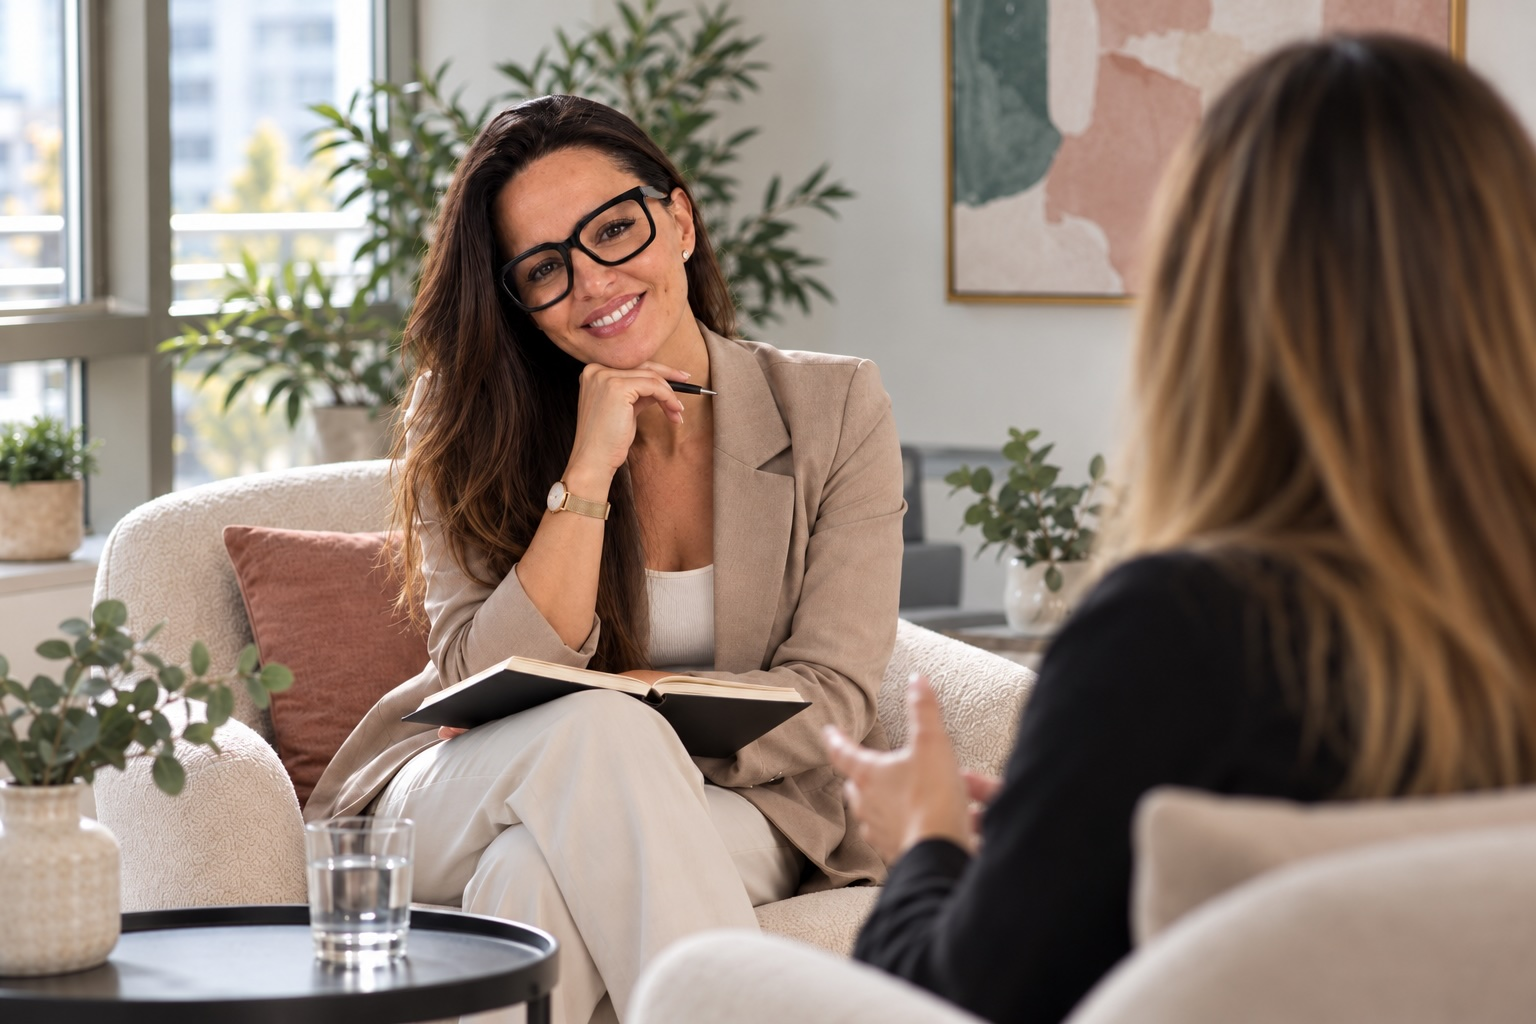
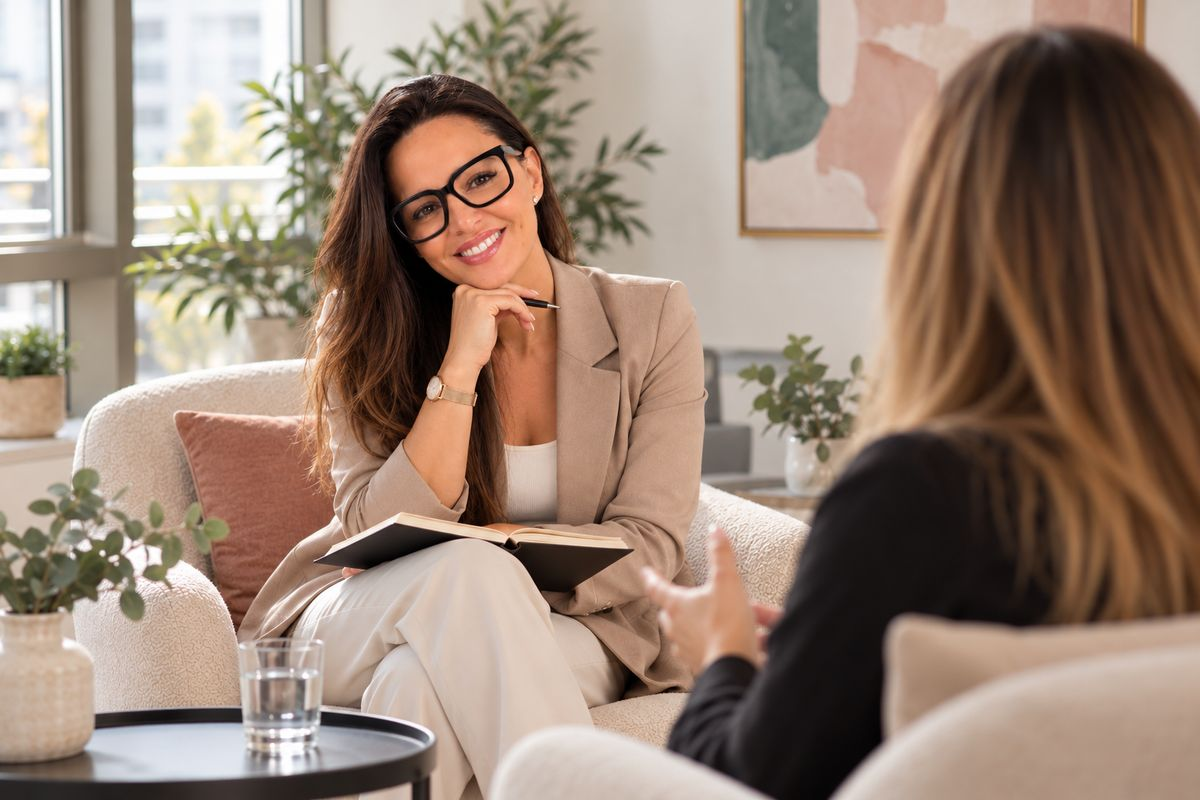
Add files via upload

diff --git a/foglalas.html b/foglalas.html
@@ -40,8 +40,8 @@
       <p>Egy foglalási oldalon választhatsz az ingyenes ismerkedő beszélgetés és a coaching ülés között. Az árak bruttó árak. A foglalásnál add meg, melyiket szeretnéd.</p>
       <ul class="checks">
         <li><strong>Ismerkedő beszélgetés:</strong> 30 perc, ingyenes. Megbeszéljük a témádat, és hogy a coaching jó irány-e hozzá. Nem kötelez semmire.</li>
-        <li><strong>Coaching ülés (life vagy kamasz coaching):</strong> 60 perc, 30 000 Ft bruttó. Folyamatban lévő coaching alkalom, akkor foglalj, ha az ismerkedő beszélgetésen már megállapodtunk a folytatásban.</li>
-        <li><strong>Párkapcsolati coaching ülés:</strong> 60 000 Ft bruttó alkalmanként. Hármasban dolgozunk, a foglalásnál jelöld meg, hogy párkapcsolati ülést szeretnél.</li>
+        <li><strong>Coaching ülés (life vagy kamasz coaching):</strong> 60 perc, 24 900 Ft bruttó. Folyamatban lévő coaching alkalom, akkor foglalj, ha az ismerkedő beszélgetésen már megállapodtunk a folytatásban.</li>
+        <li><strong>Párkapcsolati coaching ülés:</strong> 34 900 Ft bruttó alkalmanként. Hármasban dolgozunk, a foglalásnál jelöld meg, hogy párkapcsolati ülést szeretnél.</li>
       </ul>
       <p class="meta">Pedagógus team coaching: egyedi ajánlat alapján, kérjük, írj a <a href="mailto:info@kapcsolodascoaching.hu?subject=Pedag%C3%B3gus%20team%20coaching">info@kapcsolodascoaching.hu</a> címre.</p>
       <p class="meta">Az időpontok 60 perces sávok. Az ismerkedő beszélgetés ebből 30 perc.</p>

diff --git a/index.html b/index.html
@@ -71,14 +71,14 @@
         <h3>Life coaching</h3>
         <div>
           <p>Elakadtál egy élethelyzetben, döntés előtt állsz, vagy egyszerűen szeretnéd jobban érteni, mi történik veled. Az ülésen te hozod a témát, én kérdezek, segítek az önreflexióban, és rendezem a gondolataidat, hogy lépésekké alakulhassanak.</p>
-          <p class="price">30 000 Ft / alkalom, bruttó</p>
+          <p class="price">24 900 Ft / alkalom, bruttó</p>
         </div>
       </li>
       <li>
         <h3>Párkapcsolati coaching</h3>
         <div>
           <p>Közös asztalnál, hármasban dolgozunk: kiteszünk mindent az asztalra, és könnyed beszélgetés közben hidat építünk kettőtök között. Ez nem párterápia.</p>
-          <p class="price">60 000 Ft / alkalom, bruttó</p>
+          <p class="price">34 900 Ft / alkalom, bruttó</p>
           <p><a class="more" href="parkapcsolati.html">Részletek a párkapcsolati coachingról</a></p>
         </div>
       </li>
@@ -86,7 +86,7 @@
         <h3>Coaching kamaszoknak és neurodivergens kamaszoknak</h3>
         <div>
           <p>Kamaszoknak, köztük ADHD-s, autizmus spektrumon lévő vagy más módon neurodivergens kamaszoknak, és a szüleiknek, akik biztonságos, ítélkezésmentes teret szeretnének számukra.</p>
-          <p class="price">30 000 Ft / alkalom, bruttó</p>
+          <p class="price">24 900 Ft / alkalom, bruttó</p>
           <p><a class="more" href="kamaszok.html">Részletek a kamasz coachingról</a></p>
         </div>
       </li>

diff --git a/parkapcsolati.html b/parkapcsolati.html
@@ -63,7 +63,7 @@
         <li>Önreflexióval keressük, mi történik bennetek, és mi lehet a következő lépés.</li>
         <li>Az ismerkedő beszélgetés ingyenes, és nem jár elköteleződéssel.</li>
       </ul>
-      <p class="price" style="margin-top:1.4rem">60 000 Ft / alkalom, bruttó</p>
+      <p class="price" style="margin-top:1.4rem">34 900 Ft / alkalom, bruttó</p>
       <div class="note" style="margin-top:1.4rem"><p>A coaching nem párterápia, és nem pszichológiai kezelés. Ha ilyen jellegű segítségre van szükségetek, az ismerkedő beszélgetésen közösen átgondoljuk, ki lehet a megfelelő szakember.</p></div>
       <p style="margin-top:1.6rem"><a class="btn" href="https://calendar.google.com/calendar/u/0/appointments/schedules/AcZssZ18UnJL9mykO5H6ke5_h1Ri6ztLCyt28_l9wbtVGC3lF9zkRN8YsLWIUeOnDKF8heq-Guiknu7d">Időpontot választok</a></p>
     </div>

diff --git a/kamaszok.html b/kamaszok.html
@@ -69,7 +69,7 @@
     <div>
       <ul class="checks">
         <li>Az ismerkedő beszélgetés ingyenes, és nem jár elköteleződéssel.</li>
-        <li>Az ülések díja 30 000 Ft alkalmanként (bruttó).</li>
+        <li>Az ülések díja 24 900 Ft alkalmanként (bruttó).</li>
         <li>Kiskorú esetén a foglaláshoz és az adatkezeléshez a szülő (gondviselő) hozzájárulása szükséges.</li>
         <li>Az ülések tartalmát bizalmasan kezelem. A kamasz és a szülő közös megállapodása szerint osztunk meg információt, a biztonságot érintő kivétellel.</li>
       </ul>
